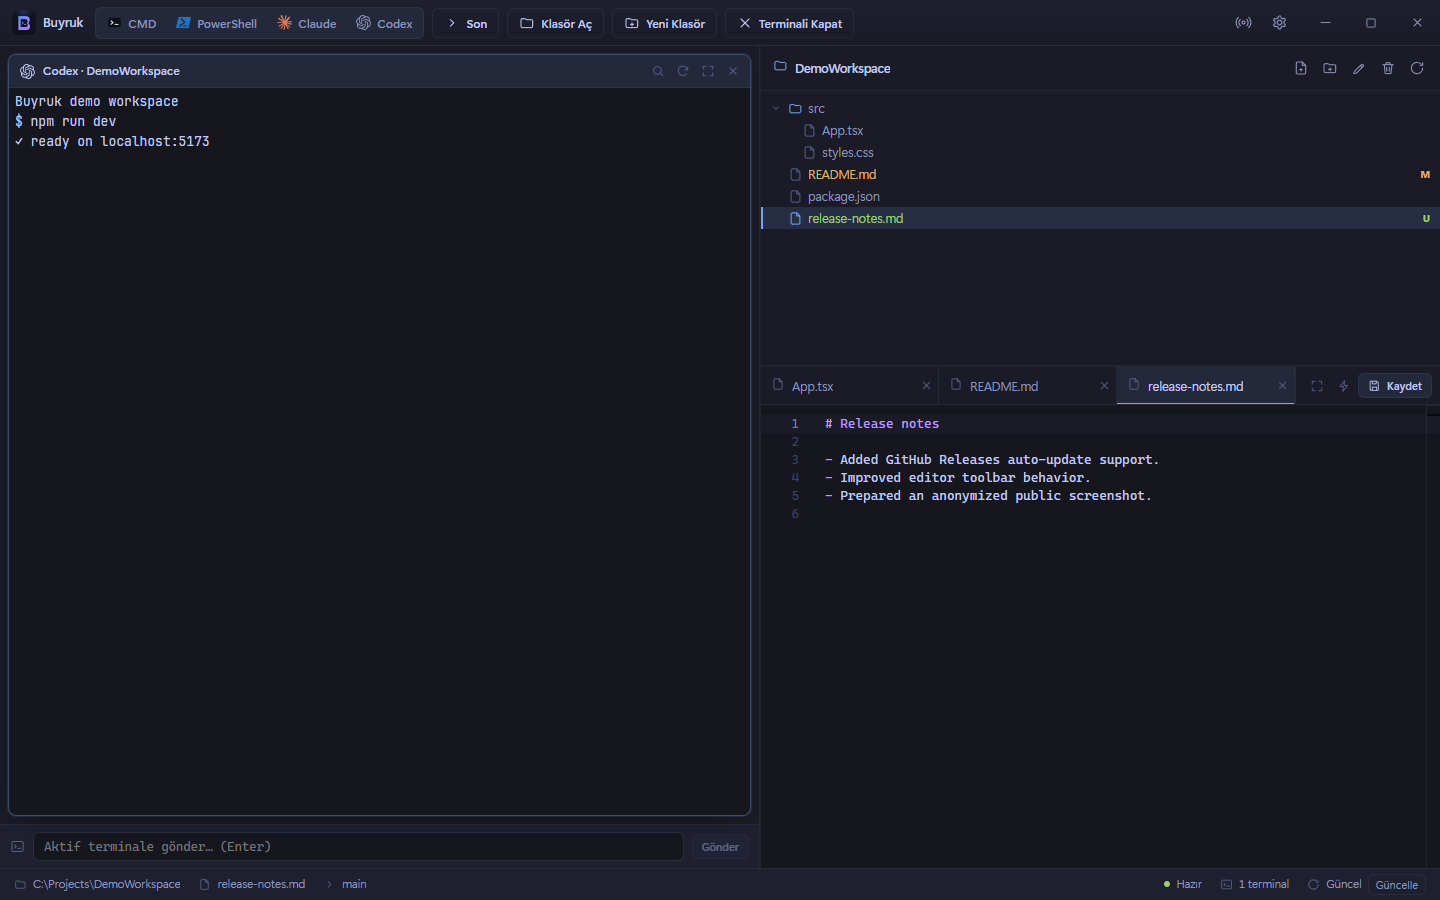
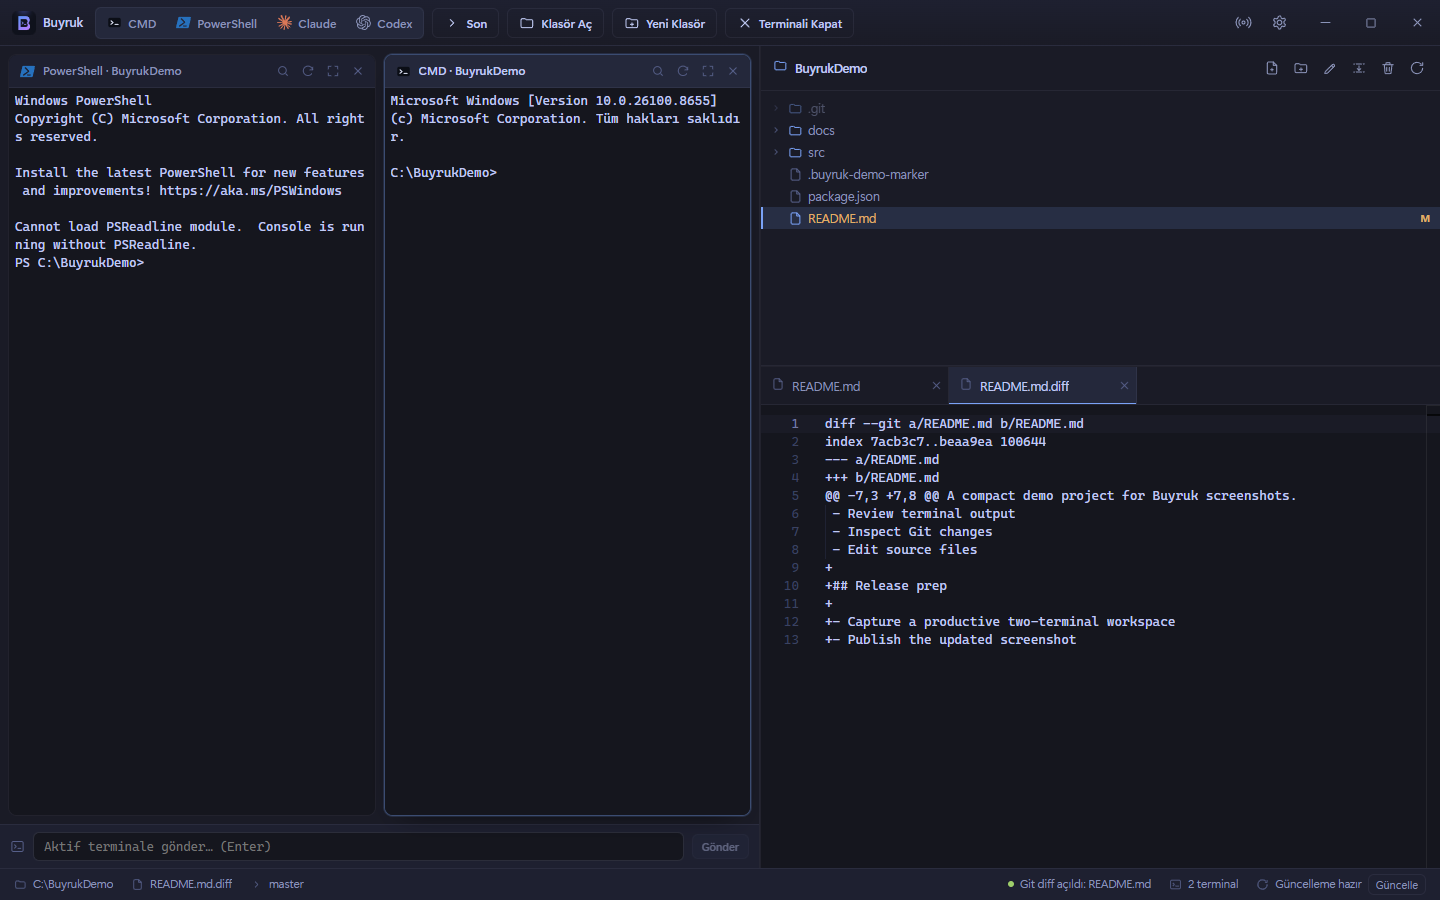
Update README and product screenshot

diff --git a/README.md b/README.md
@@ -2,7 +2,7 @@
 
 Buyruk, Windows için geliştirilmiş açık kaynak bir masaüstü çalışma alanı uygulamasıdır. Tek pencerede çoklu terminal, dosya gezgini ve Monaco tabanlı kod editörü sunar.
 
-İndirme: [v1.0.0 release](https://github.com/enesbsafak/Buyruk/releases/tag/v1.0.0)
+İndirme: [son Windows release](https://github.com/enesbsafak/Buyruk/releases/latest)
 
 ![Buyruk çalışma alanı ekran görüntüsü](docs/screenshot.png)
 
@@ -20,17 +20,19 @@ Güvenlik tarafında `contextIsolation: true` ve `nodeIntegration: false` kullan
 
 - CMD, PowerShell, Claude ve Codex oturumları.
 - Birden fazla terminal açıldığında otomatik grid yerleşimi.
-- Her terminal için arama, temizleme, yeniden başlatma ve zoom kontrolleri.
+- Her terminal için arama, yeniden başlatma ve zoom kontrolleri.
 - Broadcast modu ile girişi tüm terminallere aynı anda gönderme.
 - Aktif terminale hızlı prompt gönderme.
 - Oturumları ve son klasörleri kalıcı saklama.
+- Claude Code oturumlarında clipboard'da görsel varken `Ctrl+V` ile görsel yapıştırma.
 
 **Dosya gezgini**
 
 - Aktif terminal klasörüne bağlı dosya ağacı.
 - `fs.watch` ile klasör yenileme.
 - Git dal bilgisi ve dosya durum rozetleri.
-- Sağ tık menüsü: burada terminal aç, Explorer'da göster, yol kopyala, yeni dosya/klasör, yeniden adlandır, sil.
+- Git diff görüntüleme: değişmiş dosyalarda araç çubuğu veya sağ tık menüsüyle read-only `.diff` sekmesi açma.
+- Sağ tık menüsü: burada terminal aç, Git diff göster, Explorer'da göster, yol kopyala, yeni dosya/klasör, yeniden adlandır, sil.
 - `Ctrl+P` ile fuzzy dosya açma.
 
 **Kod editörü**
@@ -38,7 +40,7 @@ Güvenlik tarafında `contextIsolation: true` ve `nodeIntegration: false` kullan
 - Monaco Editor.
 - Sekmeli dosya açma.
 - `Ctrl+S` ile kaydetme.
-- Bul/değiştir, biçimlendir, kaydedilmiş sürümle diff görünümü.
+- Bul/değiştir, biçimlendir, kaydedilmiş sürümle diff görünümü ve Git diff sekmeleri.
 - Resim önizleme ve ikili/büyük dosya koruması.
 
 **Uygulama**
@@ -54,10 +56,12 @@ Güvenlik tarafında `contextIsolation: true` ve `nodeIntegration: false` kullan
 Hazır Windows installer için release sayfasındaki `.exe` dosyasını indir:
 
 ```text
-Buyruk-1.0.0-win-x64.exe
+Buyruk-1.0.5-win-x64.exe
 ```
 
 Installer henüz imzalı değildir. Bu yüzden Windows SmartScreen uyarısı gösterebilir.
+
+`v1.0.0`-`v1.0.3` arası bir sürüm kuruluysa, unsigned installer imza doğrulama ayarı nedeniyle otomatik güncelleme hata verebilir. Bu durumda son release installer'ını bir kez manuel kur; `v1.0.4` ve sonrası unsigned GitHub Release güncellemeleri aynı publisher doğrulama hatasına takılmadan ilerler.
 
 ## Geliştirme
 